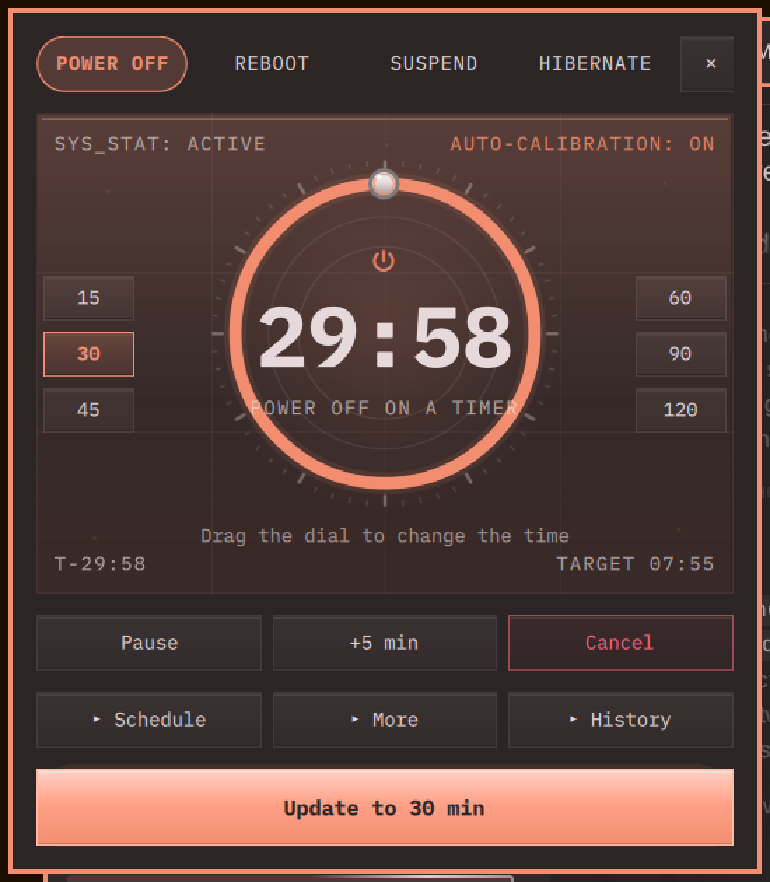
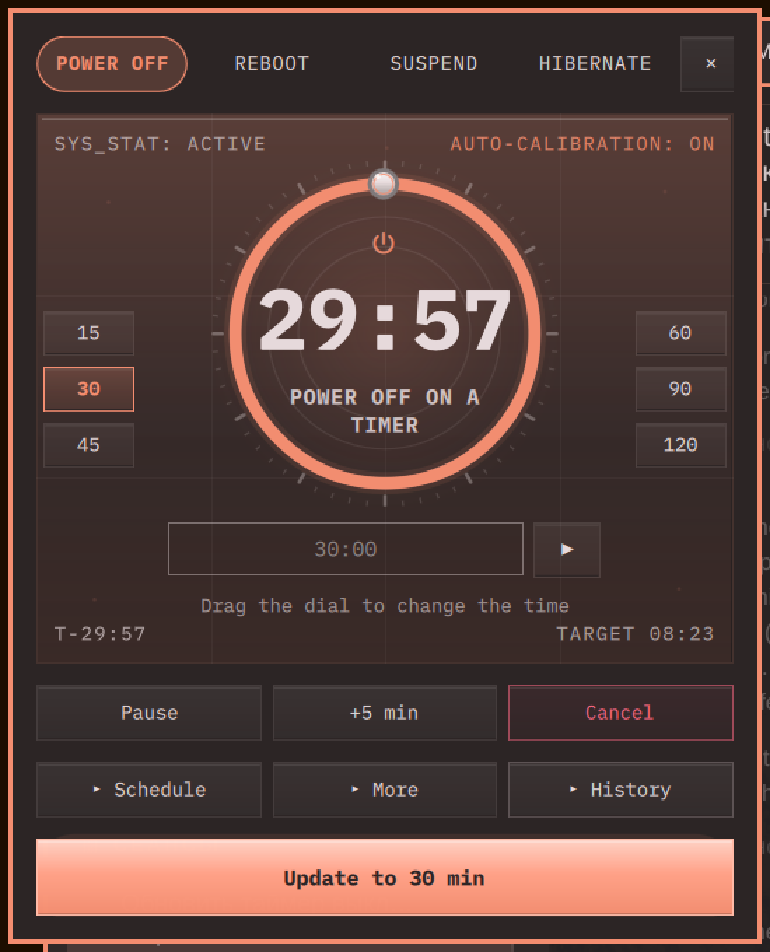
v3 stage 10: exact time in seconds, a dial a hand can aim at
- Caption inside the ring: width 74 % of the dial, two lines, body size,
  demi-bold — it no longer crosses the arc. Figure at 26 %, demi-bold, and
  Text.Fit keeps even 11:59:58 inside the ring.
- Drag covers 0-120 min (1 min per 3 deg) instead of 0-720, which was two
  minutes per degree and felt like a spin.
- Exact field under the dial: '1' is a minute, '1:30' and '30s' are seconds.
  New daemon command set-secs (5 s..24 h) + control.sh set-seconds, so short
  timers are real, not rounded up to a minute.
- Fixed: the angle helpers that the drag calls were lost with the old knob
  (TypeError on every drag), a duplicated heroLabels id, and preset columns
  anchored inside a Column.
- tests/test_gestures.sh: 15 checks, including the new exact input.

diff --git a/PopupContent.qml b/PopupContent.qml
@@ -380,10 +380,11 @@ Column {
                     textFormat: Text.PlainText
                     text: String(host.heroCaption).toUpperCase()
                     color: host.popupText
-                    opacity: 0.72
+                    opacity: 0.86
                     font.family: host.fontFamily
-                    font.pixelSize: Style.font.bodySmall
-                    font.letterSpacing: 1.1
+                    font.pixelSize: Style.font.body
+                    font.weight: Font.DemiBold
+                    font.letterSpacing: 0.6
                     elide: Text.ElideRight
                   }
 

diff --git a/CHANGELOG.md b/CHANGELOG.md
@@ -1,3 +1,17 @@
+## v3 stage 10 — exact time, finer dial
+
+- The caption inside the ring wraps to two lines inside 74 % of the dial, at
+  body size and demi-bold, so "Power off on a timer" no longer crosses the arc.
+- The figure is demi-bold at 26 % of the dial and still fits by construction:
+  `11:59:58` shrinks instead of spilling out.
+- Dragging the ring now covers 0–120 min instead of 0–720: one minute per
+  three degrees, which is what a hand can actually aim at. Longer times come
+  from the wheel (Shift ±15) and the presets.
+- New exact field under the dial: `1` is a minute, `1:30` and `30s` are
+  seconds, Enter or ▶ starts. Backed by a new `set-secs:` daemon command
+  (5 s – 24 h) and `control.sh set-seconds`, so a 30-second timer is real.
+- The aperture is gone; 15/30/45/60/90/120 sit around the dial, three a side.
+
 # Changelog
 
 All notable changes to this plugin are documented here.
